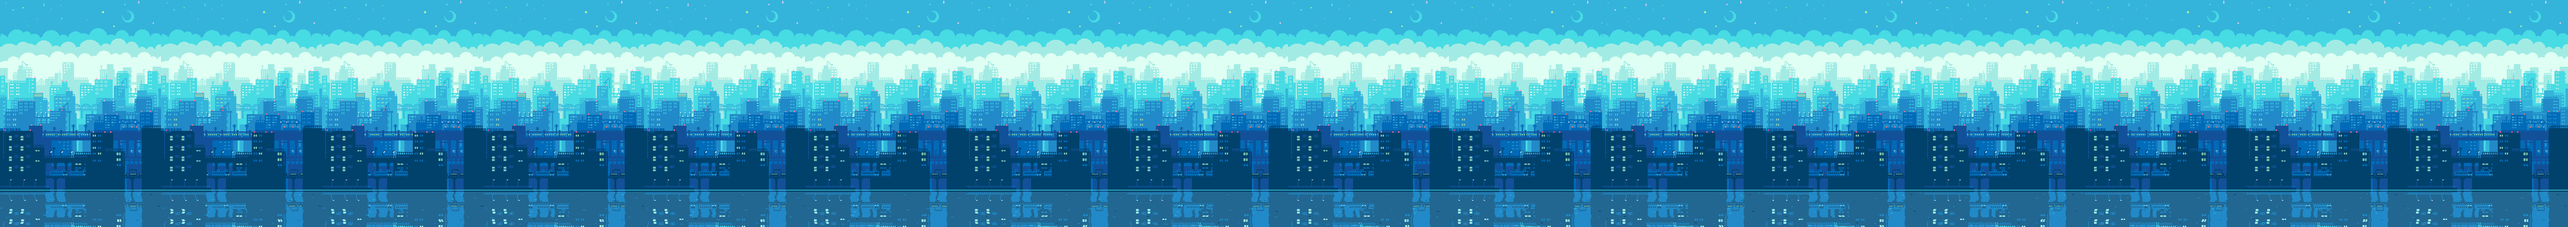
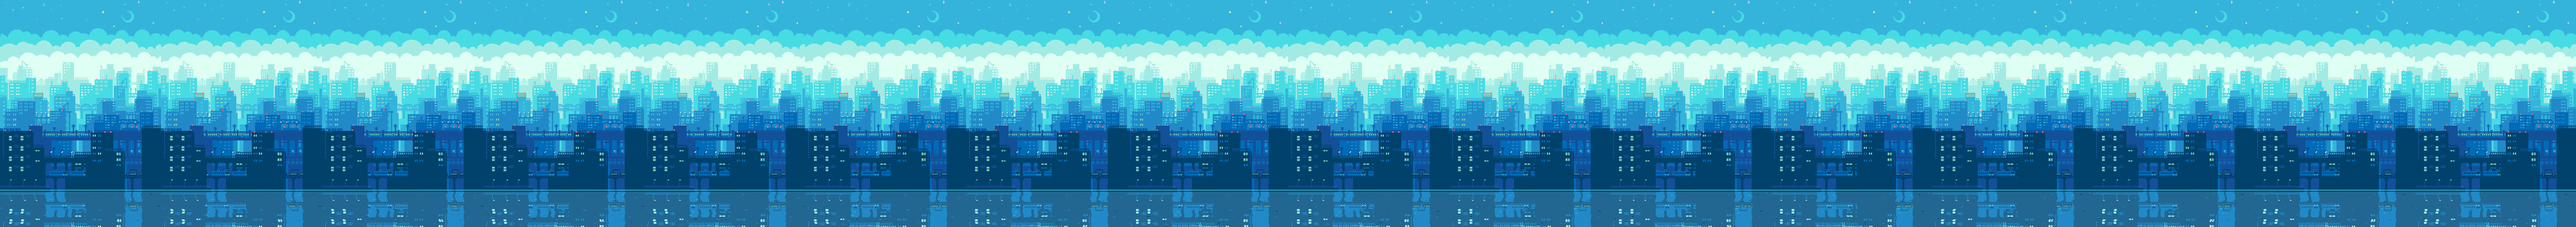
Changed night background

diff --git a/game/states/play.js b/game/states/play.js
@@ -17,7 +17,12 @@ States.Play = {
 	create: function(){
 		// Sets the game background color
 		this.game.stage.backgroundColor = '0x000000';
-		this.background = this.game.add.sprite(0, 0, 'CityDay');
+		var currentDate = new Date();
+		if (currentDate.getHours() > 18) {
+			this.background = this.game.add.sprite(0, 0, 'CityNight');
+		} else {
+			this.background = this.game.add.sprite(0, 0, 'CityDay');
+		}		
 		this.background.animations.add('Play');
 		this.background.animations.play('Play', 8, true);
 		this.background.scale.setTo(this.game.width / this.background.width, this.game.height / this.background.height);
@@ -71,7 +76,7 @@ States.Play = {
 
 
 );
-		}, 0);
+		}, 2250);
 		//var trace = this.game.add.group();
 		//this.game.playerTrace = this.game.add.sprite();
 		//trace.add(this.game.playerTrace);

diff --git a/game/models/chart.js b/game/models/chart.js
@@ -50,7 +50,7 @@ Chart.prototype.load = function (chart) {
 }
 
 Chart.prototype.createNoteWithTime = function () {
-	console.log(this.index  + '<' + this.notes.length);
+	//console.log(this.index  + '<' + this.notes.length);
 	if (this.index >= this.notes.length - 3) {
 		//this.timer.stop();
 		//this.music.stop();
